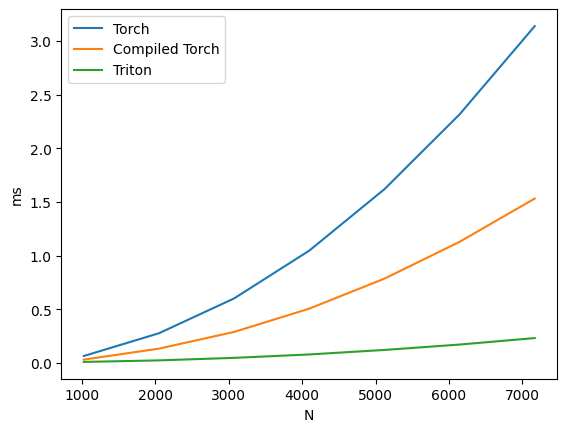
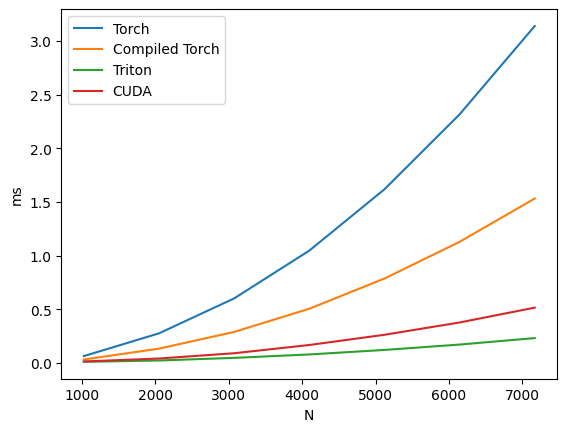
Add a cuda kernel

diff --git a/kernel.cpp b/kernel.cpp
@@ -1,0 +1,73 @@
+
+#include <cuda_runtime.h>
+#include <torch/extension.h>
+#include <ATen/cuda/CUDAContext.h>
+
+__global__ void gol_kernel_i8(const int8_t* __restrict__ x_ptr, int8_t* __restrict__ out_ptr, long rowstride, long n) {
+  long x = blockIdx.x * blockDim.x + threadIdx.x;
+  long y = blockIdx.y * blockDim.y + threadIdx.y;
+
+  if (x >= n || y >= n) return;
+
+  int8_t r00 = 0;
+  int8_t r01 = 0;
+  int8_t r02 = 0;
+  int8_t r10 = 0;
+  int8_t r11 = 0;
+  int8_t r12 = 0;
+  int8_t r20 = 0;
+  int8_t r21 = 0;
+  int8_t r22 = 0;
+
+  if (y > 0) {
+    if (x > 0) r00 = x_ptr[y * rowstride + x - rowstride - 1];
+    r01 = x_ptr[y * rowstride + x - rowstride];
+    if (x < n - 1) r02 = x_ptr[y * rowstride + x - rowstride + 1];
+  }
+  
+  if (x > 0) r10 = x_ptr[y * rowstride + x - 1];
+  r11 = x_ptr[y * rowstride + x];
+  if (x < n - 1) r12 = x_ptr[y * rowstride + x + 1];
+
+  if (y < n - 1) {
+    if (x > 0) r20 = x_ptr[y * rowstride + x + rowstride - 1];
+    r21 = x_ptr[y * rowstride + x + rowstride];
+    if (x < n - 1) r22 = x_ptr[y * rowstride + x + rowstride + 1];
+  }
+
+  int8_t sum = r00 + r01 + r02 + r10 + r12 + r20 + r21 + r22;
+
+  int8_t result = (r11 > 0) ? ((sum == 2) || (sum == 3) ? 1 : 0) : (sum == 3 ? 1 : 0);
+
+  out_ptr[y * rowstride + x] = result;
+}
+
+void gol(torch::Tensor x, torch::Tensor out) {
+  TORCH_CHECK(x.is_cuda(), "x must be CUDA tensors");
+  TORCH_CHECK(x.scalar_type() == at::kChar, "only int8");
+  TORCH_CHECK(x.stride(1) == 1, "colstride must be 1");
+  TORCH_CHECK(x.dim() == 2, "x must be 2D");
+  TORCH_CHECK(x.size(0) == x.size(1), "x must be square");
+  TORCH_CHECK(out.is_cuda(), "out must be CUDA tensors");
+  TORCH_CHECK(out.scalar_type() == at::kChar, "only int8");
+  TORCH_CHECK(out.stride(1) == 1, "colstride must be 1");
+  TORCH_CHECK(out.dim() == 2, "out must be 2D");
+  TORCH_CHECK(out.size(0) == x.size(0), "out must have the same height");
+  TORCH_CHECK(out.size(1) == x.size(1), "out must have the same width");
+
+  const long n = x.size(0);
+  const int block_size = 16;
+  const int blocks  = (n + block_size - 1) / block_size;
+  auto stream = at::cuda::getCurrentCUDAStream();
+
+  dim3 grid(blocks, blocks);
+  dim3 block(block_size, block_size);
+
+  gol_kernel_i8<<<grid, block, 0, stream>>>(
+      x.data_ptr<int8_t>(), out.data_ptr<int8_t>(), x.stride(0), n);
+  TORCH_CHECK(cudaGetLastError() == cudaSuccess, "kernel launch failed");
+}
+
+PYBIND11_MODULE(TORCH_EXTENSION_NAME, m) {
+  m.def("gol", &gol, "gol (CUDA, int8)");
+}

diff --git a/main.py b/main.py
@@ -147,8 +147,25 @@ def step4(x: torch.Tensor, BLOCK_SIZE: int = None):
     step4_kernel[grid](x, output, x.stride(0), x.shape[0], BLOCK_SIZE=BLOCK_SIZE)
 
     return output
-    
 
+# %%
+import torch
+from torch.utils.cpp_extension import load_inline
+
+
+ext = load_inline(
+    name="gol_ext",
+    cpp_sources="",            # no separate C++ binding file
+    cuda_sources=[open("kernel.cpp").read()],   # contains both kernel and PYBIND11 module
+    with_cuda=True,
+    extra_cuda_cflags=["-O3"],
+    verbose=True,
+)
+
+def step5(x: torch.Tensor):
+    output = torch.empty_like(x)
+    ext.gol(x, output)
+    return output
 
 # %%
 
@@ -190,7 +207,7 @@ def visualize_heatmap(x: torch.Tensor, title: str = "Heatmap"):
 
 x = torch.tensor([[0, 0, 0, 0, 0], [0, 0, 1, 0, 0], [0, 0, 1, 0, 0], [0, 0, 1, 0, 0], [0, 0, 0, 0, 0]]).to(torch.int8).to(device)
 visualize_heatmap(x)
-x = step4(x)
+x = step5(x)
 visualize_heatmap(x)
 
 # %%
@@ -201,8 +218,8 @@ visualize_heatmap(x)
         x_names=['N'],
         x_vals=[512 * i for i in range(2, 16, 2)],
         line_arg='provider',
-        line_vals=['torch', 'compiled_torch', 'triton'],
-        line_names=['Torch', 'Compiled Torch', 'Triton'],
+        line_vals=['torch', 'compiled_torch', 'triton', 'cuda'],
+        line_names=['Torch', 'Compiled Torch', 'Triton', 'CUDA'],
         ylabel='ms',
         plot_name='gol',
         args={}
@@ -218,12 +235,8 @@ def benchmark(provider, N):
         ms, min_ms, max_ms = triton.testing.do_bench(lambda: step2(x), quantiles=quantiles, rep=500)
     elif provider == 'triton':
         ms, min_ms, max_ms = triton.testing.do_bench(lambda: step4(x), quantiles=quantiles, rep=500)
-    elif provider == 'torch_f16':
-        x = x.to(torch.float16)
-        ms, min_ms, max_ms = triton.testing.do_bench(lambda: step1_f16(x), quantiles=quantiles, rep=500)
-    elif provider == 'compiled_torch_f16':
-        x = x.to(torch.float16)
-        ms, min_ms, max_ms = triton.testing.do_bench(lambda: step2_f16(x), quantiles=quantiles, rep=500)
+    elif provider == 'cuda':
+        ms, min_ms, max_ms = triton.testing.do_bench(lambda: step5(x), quantiles=quantiles, rep=500)
     else:
         raise ValueError(f"Invalid provider: {provider}")
     return ms, min_ms, max_ms
@@ -306,3 +319,4 @@ def main():
 
 if __name__ == "__main__":
     main()
+
